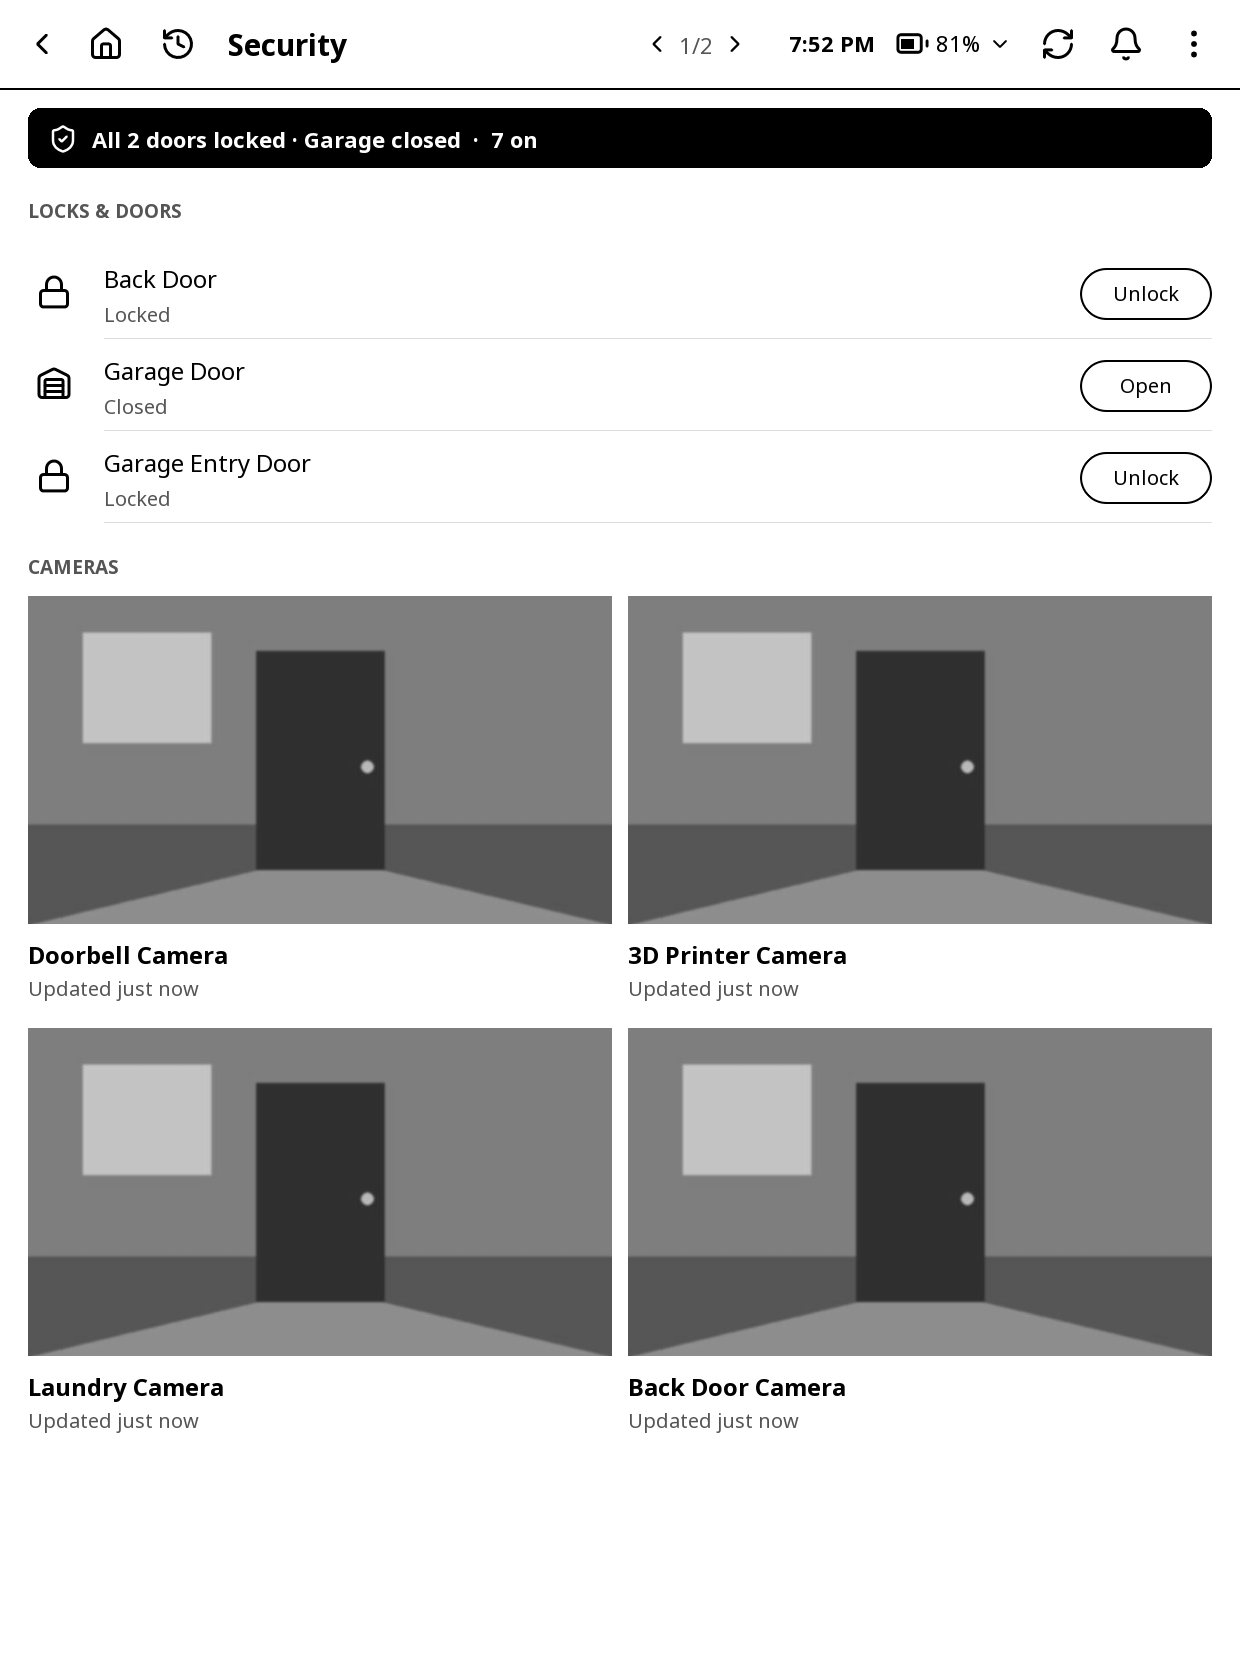
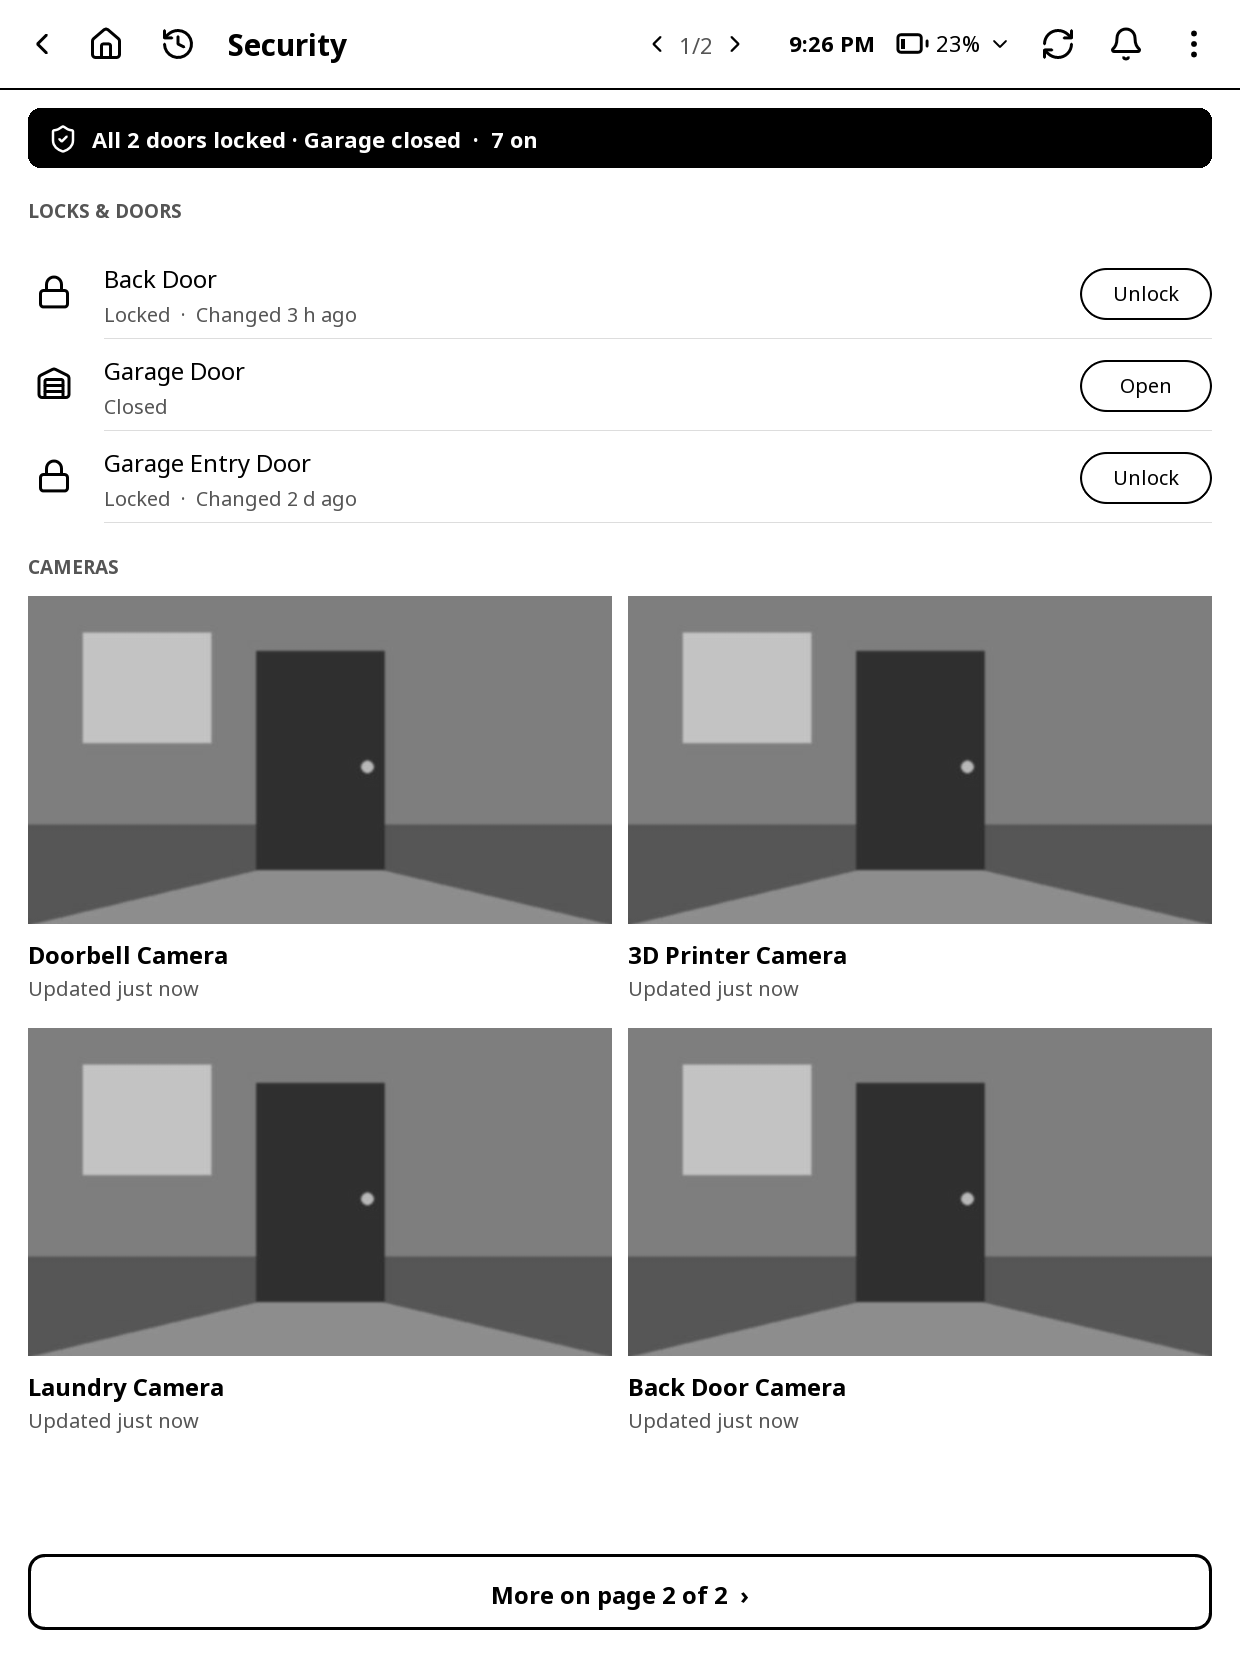
Home Assistant: locks and sensors show when they last changed (Changed 12 min ago) on Security, in rooms, in their sheet and on the web page's Devices list; ago counts days

diff --git a/homeassistant.koplugin/web/ha.js b/homeassistant.koplugin/web/ha.js
@@ -102,7 +102,7 @@ App.pages.ha = {
           const star = h('button', { class: 'star' + (quick.has(d.id) ? ' on' : ''), title: 'Quick tile' }, '★');
           star.addEventListener('click', () => toggleQuick(d, star));
           return h('div', {}, box, h('span', { class: 'grow', style: d.visible ? '' : 'color:var(--muted)' }, d.name),
-            h('span', { class: 'small muted' }, d.state), h('span', { class: 'pill' }, d.domain.replace('_', ' ')), star);
+            h('span', { class: 'small muted' }, d.changed ? d.state + ' · ' + d.changed : d.state), h('span', { class: 'pill' }, d.domain.replace('_', ' ')), star);
         })));
       }
       return shown;

diff --git a/guide/homeassistant.md b/guide/homeassistant.md
@@ -105,6 +105,7 @@ Some taps ask first: **Unlock** a lock, **Open** or **Close** the garage, **Run*
 - **Players**: previous, play/pause, next, mute, volume and **Source**, with what's playing.
 - **On and off**: lights, switches, fans and players have an on/off switch at the top right. A TV that Home Assistant can't wake says so: it can turn it on only once Wake-on-LAN or a turn-on automation is set up for it.
 - **Cameras**: **Open full screen**, and **PLACEHOLDER IMAGE**: the drawing shown until the picture arrives (**Automatic**, **Doorway**, **Garage**, **Room**, **3D printer**).
+- **How old a reading is**: a lock's or sensor's sheet starts with a small line such as "Changed 12 min ago", so you can tell whether a reading is stale. The same line is under locks and sensors on Security and in a room, and on the web page's Devices list. It counts minutes, then hours, then days, and moves on when the screen redraws.
 - **Sensors with a number**: a bar graph of the **LAST 24 HOURS** with its highest and lowest.
 
 At the bottom of every sheet:
